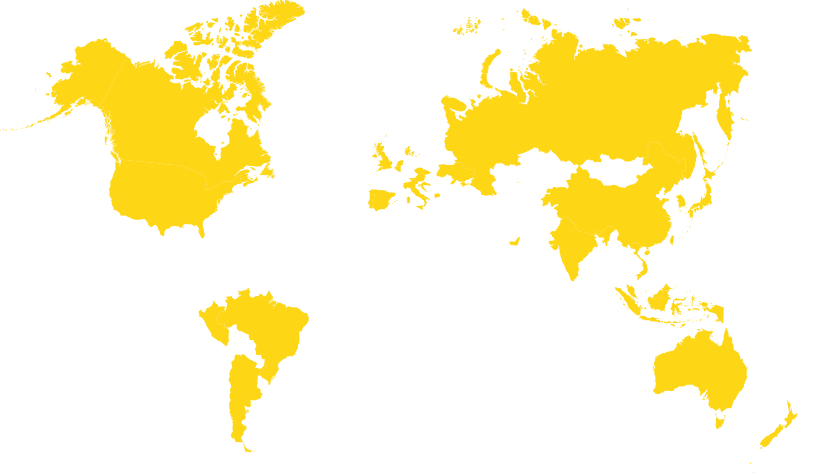
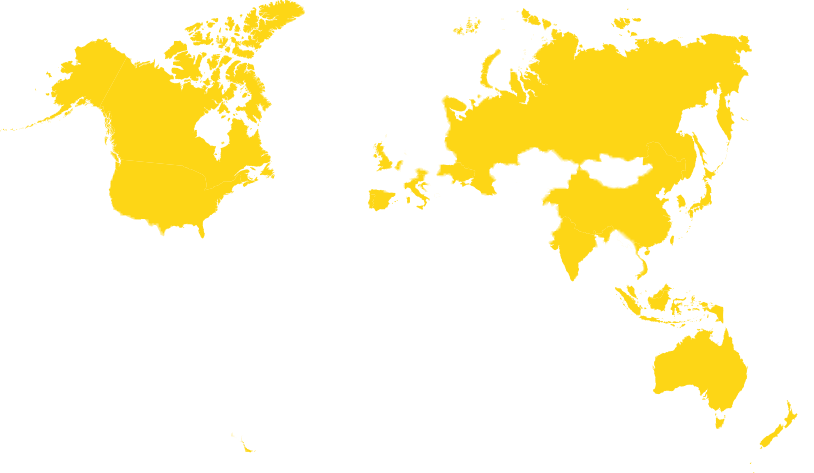
small amends. changed the map yellow img.

diff --git a/app/styles/main.css b/app/styles/main.css
@@ -177,10 +177,6 @@ button.play.playing {
   background-color: #333; }
 
 /* WORLD KARMA */
-.panel-a {
-  display: none; }
-
-/* temp dev */
 #world-karma {
   height: 100%;
   padding: 0px 20px;
@@ -209,5 +205,18 @@ button.play.playing {
   opacity: 0.94; }
 
 #map img {
+  top: 0;
+  left: 0;
   width: 76%;
-  max-width: 757px; }
+  max-width: 757px;
+  position: absolute;
+  -webkit-transition: all 1s;
+  -moz-transition: all 1s;
+  transition: all 1s; }
+
+#map img.layer-1 {
+  z-index: 1; }
+
+#map img.layer-2 {
+  z-index: 2;
+  opacity: 0; }

diff --git a/app/index.html b/app/index.html
@@ -80,7 +80,8 @@
 
                         <div class="pure-u-1-2 r-col">
                             <div id="map">
-                                <img src="images/map-white.png" alt="World of Karma">
+                                <img src="images/map-yellow.png" alt="World of Karma" class="layer-2">
+                                <img src="images/map-white.png" alt="World of Karma" class="layer-1">
                             </div>
                         </div>
 

diff --git a/app/styles/main.scss b/app/styles/main.scss
@@ -171,8 +171,6 @@ button.play.playing {
 }
 
 /* WORLD KARMA */
-.panel-a {display: none} /* temp dev */
-
 #world-karma {
 	height: 100%;
 	padding: 0px 20px;
@@ -208,6 +206,17 @@ button.play.playing {
 	opacity: 0.94;
 }
 #map img {
+	top: 0;
+	left: 0;
 	width: 76%;
 	max-width: 757px;
+	position: absolute;
+	@include transition(all 1s);
+}	
+#map img.layer-1 {
+	z-index: 1;
+}
+#map img.layer-2 {
+	z-index: 2;
+	opacity: 0;
 }
